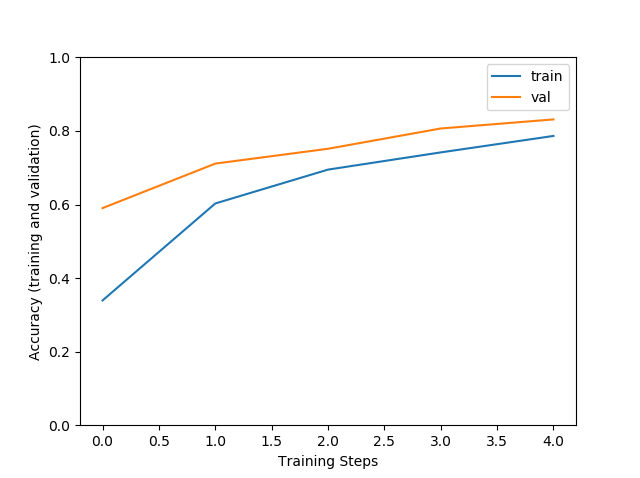
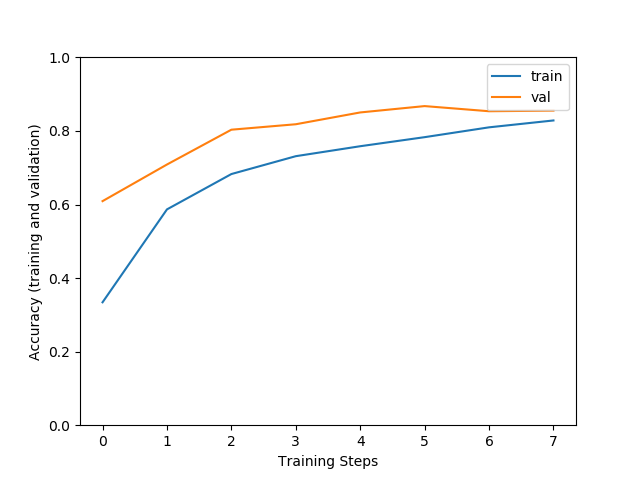
all analayze hw3

diff --git a/ML/HW_3/code/ImageClassifiar.py b/ML/HW_3/code/ImageClassifiar.py
@@ -58,9 +58,9 @@ CLASS_NAMES = np.array([item.name for item in data_dir.glob('*') if item.name !=
 
 #model 1 [imagenet/mobilenet_v2_100_224/feature_vector] https://tfhub.dev/google/imagenet/mobilenet_v2_100_224/feature_vector/4
 #model 2 [imagenet/nasnet_large/classification] -https://tfhub.dev/google/imagenet/nasnet_large/classification/4  ##331 px
-module_selection = ("mobilenet_v2_100_224", 224) 
+module_selection = ("nasnet_large", 331) 
 handle_base, pixels = module_selection
-MODULE_HANDLE ="https://tfhub.dev/google/imagenet/{}/feature_vector/4".format(handle_base)
+MODULE_HANDLE ="https://tfhub.dev/google/imagenet/{}/classification/4".format(handle_base)
 IMAGE_SIZE = (pixels, pixels)
 print("Using {} with input size {}".format(MODULE_HANDLE, IMAGE_SIZE))
 
@@ -130,9 +130,9 @@ for _ in tqdm(labeled_ds.enumerate()):
     DATASET_SIZE+=1
 
 BATCH_SIZE = 32 
-train_size = int(0.3 * DATASET_SIZE)
-val_size = int(0.3 * DATASET_SIZE)
-test_size = int(0.4 * DATASET_SIZE)
+train_size = int(0.7 * DATASET_SIZE)
+val_size = int(0.15 * DATASET_SIZE)
+test_size = int(0.15 * DATASET_SIZE)
 
 
 labeled_ds = prepare_for_training(labeled_ds)
@@ -178,7 +178,7 @@ steps_per_epoch = train_size // BATCH_SIZE
 validation_steps = val_size // BATCH_SIZE
 hist = model.fit(
     train_dataset,
-    epochs=5, steps_per_epoch=steps_per_epoch,
+    epochs=8, steps_per_epoch=steps_per_epoch,
     validation_data=val_dataset,
     validation_steps=validation_steps).history
 

diff --git a/ML/HW_3/README.md b/ML/HW_3/README.md
@@ -12,7 +12,8 @@ we used 2 model:
 -------------
 model  |train/val/test |accuracy -test | accuracy -val |accuracy -train| loss - test | epcoh |
 ------ |-------------- | ------------- |-------------- |-------------- | ------------|-------|
-1      |0.7/0.15/0.15  |     0.8259    |accuracy -Test |accuracy -Test |   1.6051    |   5   |
+1      |0.7/0.15/0.15  |     0.8726    |     0.8553    |     0.8286    |   1.4240    |   8   |
+1      |0.3/0.3/0.4    |     0.7771    |     0.8080    |     0.7204    |   1.7082    |   8   |
 2      |0.7/0.15/0.15  |     0.9410    |     0.9457    |     0.8909    |   1.2423    |   5   |
 2      |0.3/0.3/0.4    |     0.8664    |     0.8742    |     0.8026    |   1.5016    |   5   |
 
@@ -24,6 +25,10 @@ model  |train/val/test |accuracy -test | accuracy -val |accuracy -train| loss - 
 ##### 0.7/0.15/0.15
 ![](https://github.com/oxenberg/systemEngineer/blob/master/ML/HW_3/graphs/model_1/acc.png)
 ![](https://github.com/oxenberg/systemEngineer/blob/master/ML/HW_3/graphs/model_1/loss.png)
+
+##### 0.3/0.3/0.4
+![](https://github.com/oxenberg/systemEngineer/blob/master/ML/HW_3/graphs/model_1/acc2.png)
+![](https://github.com/oxenberg/systemEngineer/blob/master/ML/HW_3/graphs/model_1/loss2.png)
 
 #### model2
 ##### 0.7/0.15/0.15
